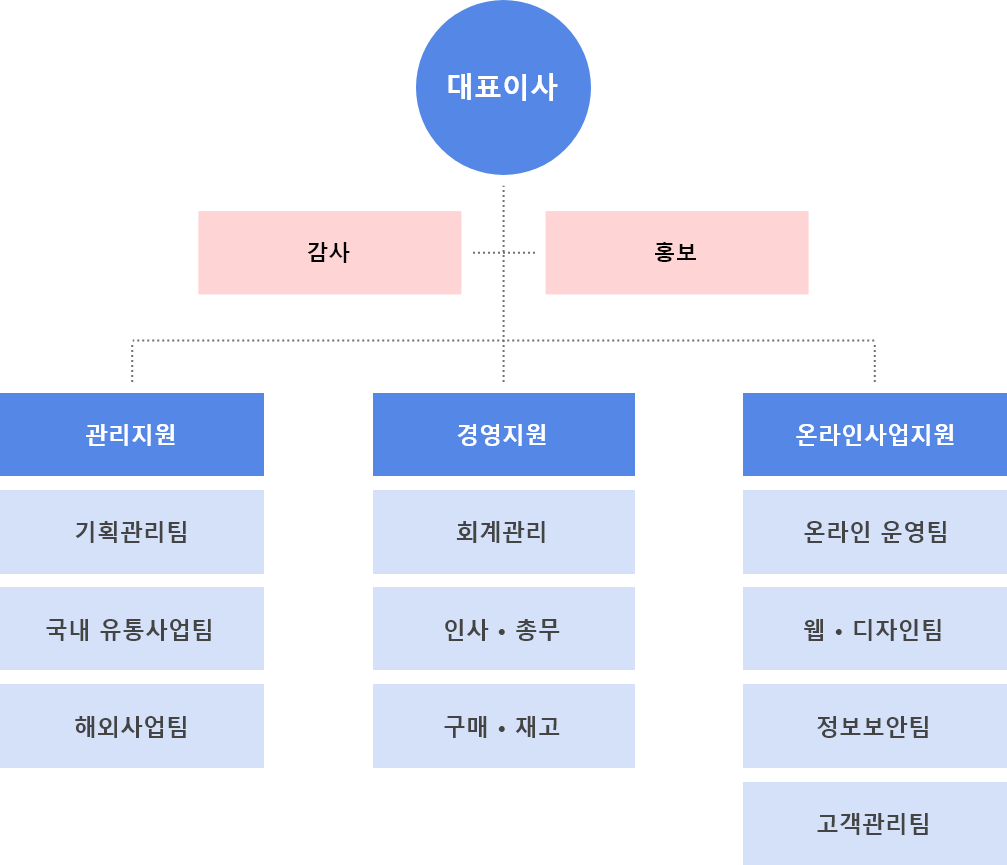
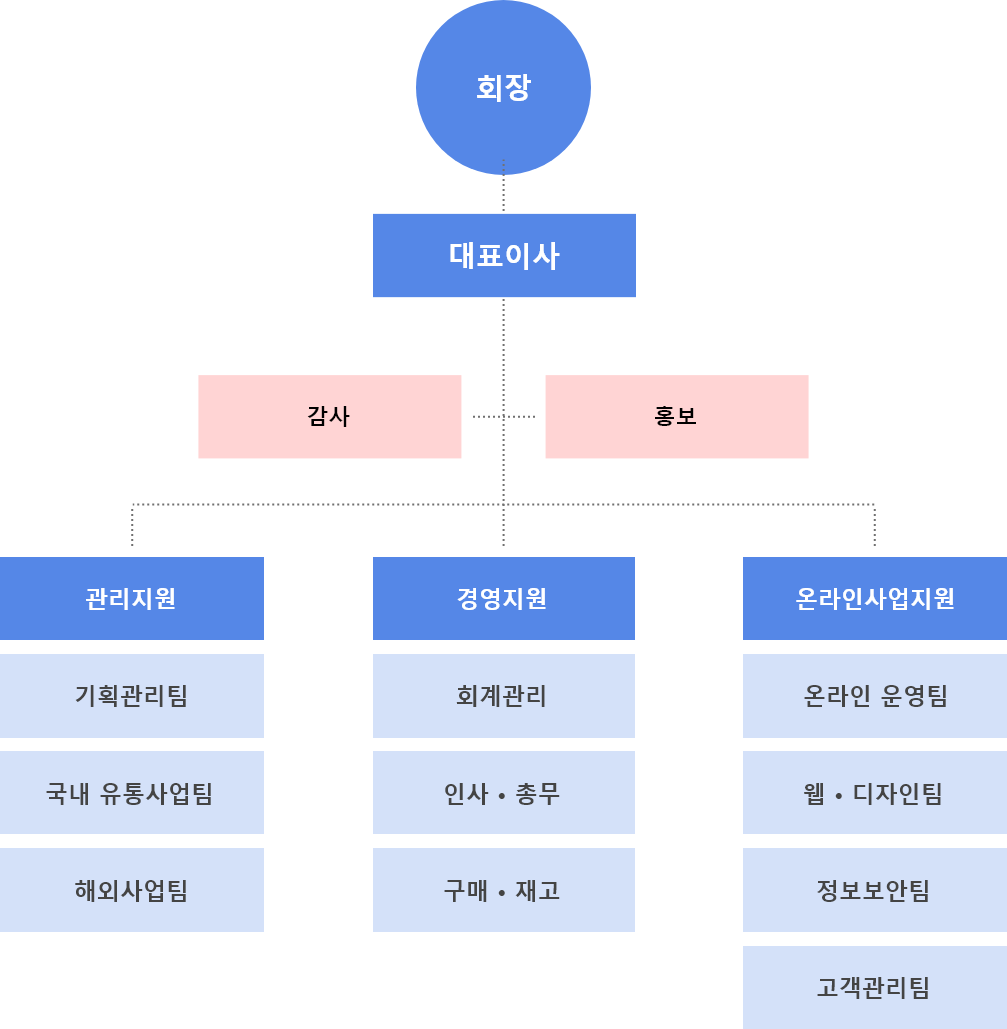
03-02 var 5.0.3

diff --git a/company.html b/company.html
@@ -90,8 +90,8 @@
                             <img class="hidden-xs" src="./images/company/ceoIMG.png" alt="대표이사">
                             <img class="hidden-sm hidden-md hidden-lg" src="./images/company/ceoIMG_mobile.png" alt="대표이사">
                             <div class="ceoName">
-                                <em>대표이사</em>
-                                <h2>이종철</h2>
+                                <em>회장</em>
+                                <h2>손 장 현</h2>
                             </div>
                         </div>
                     </div>

diff --git a/README.md b/README.md
@@ -73,3 +73,4 @@ Java Email API를 사용했다.
   - transition-delay 추가
   - main IMG link 연결
   - 협업사 logo 추가
+  - company 수정
